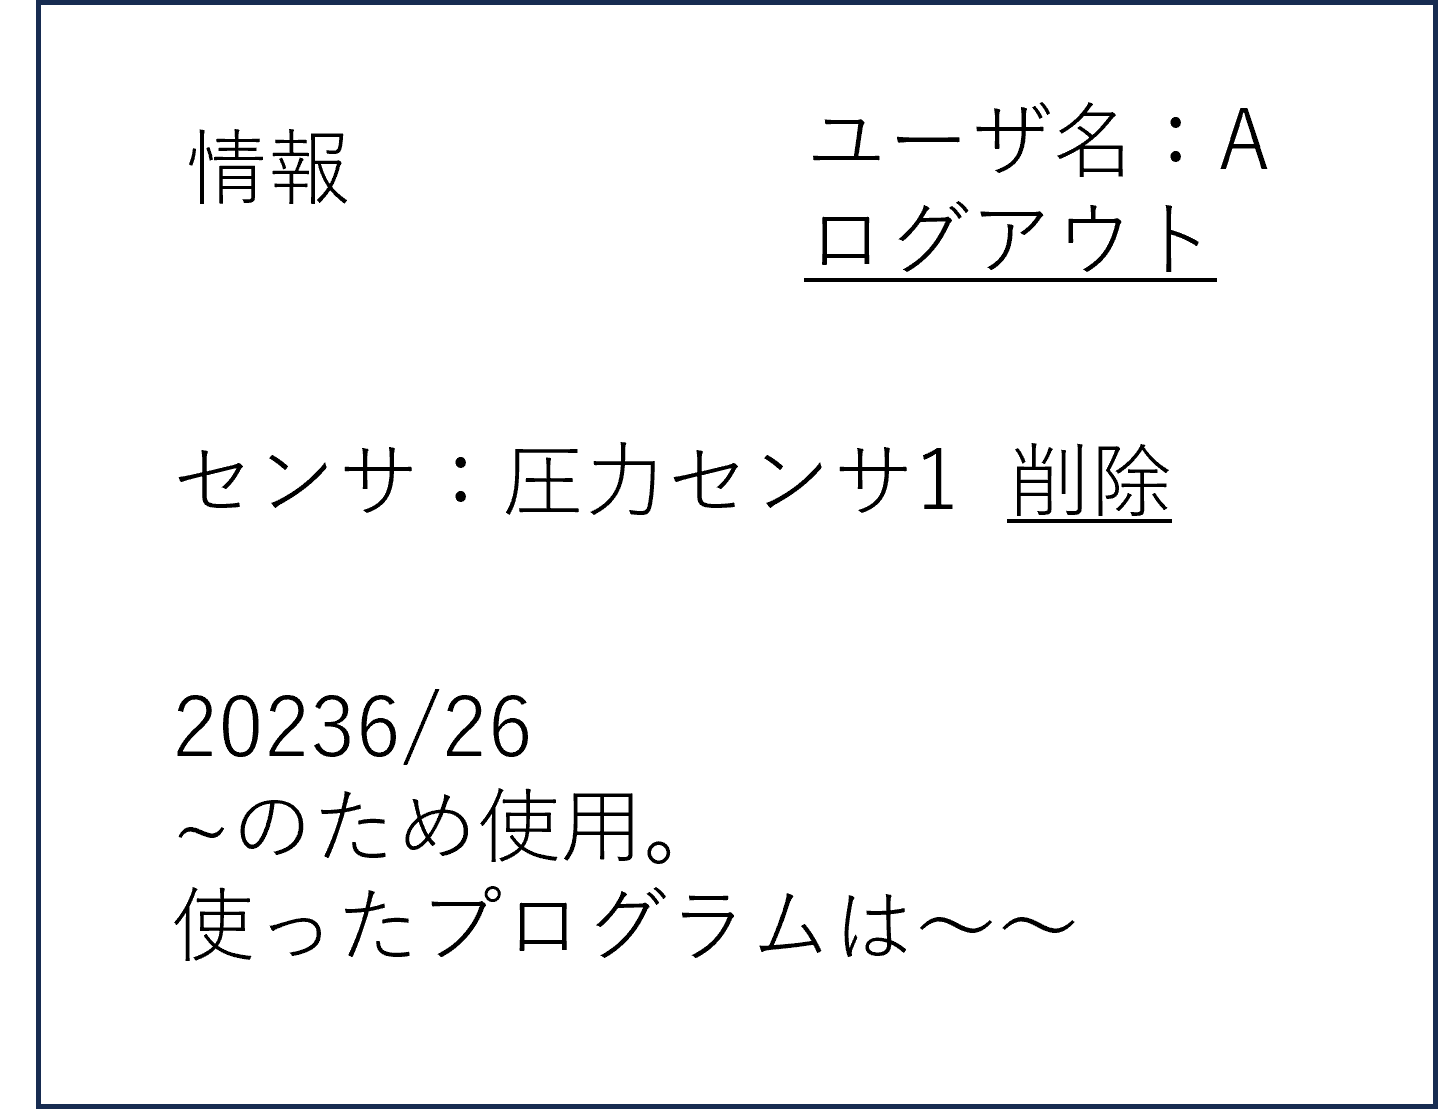
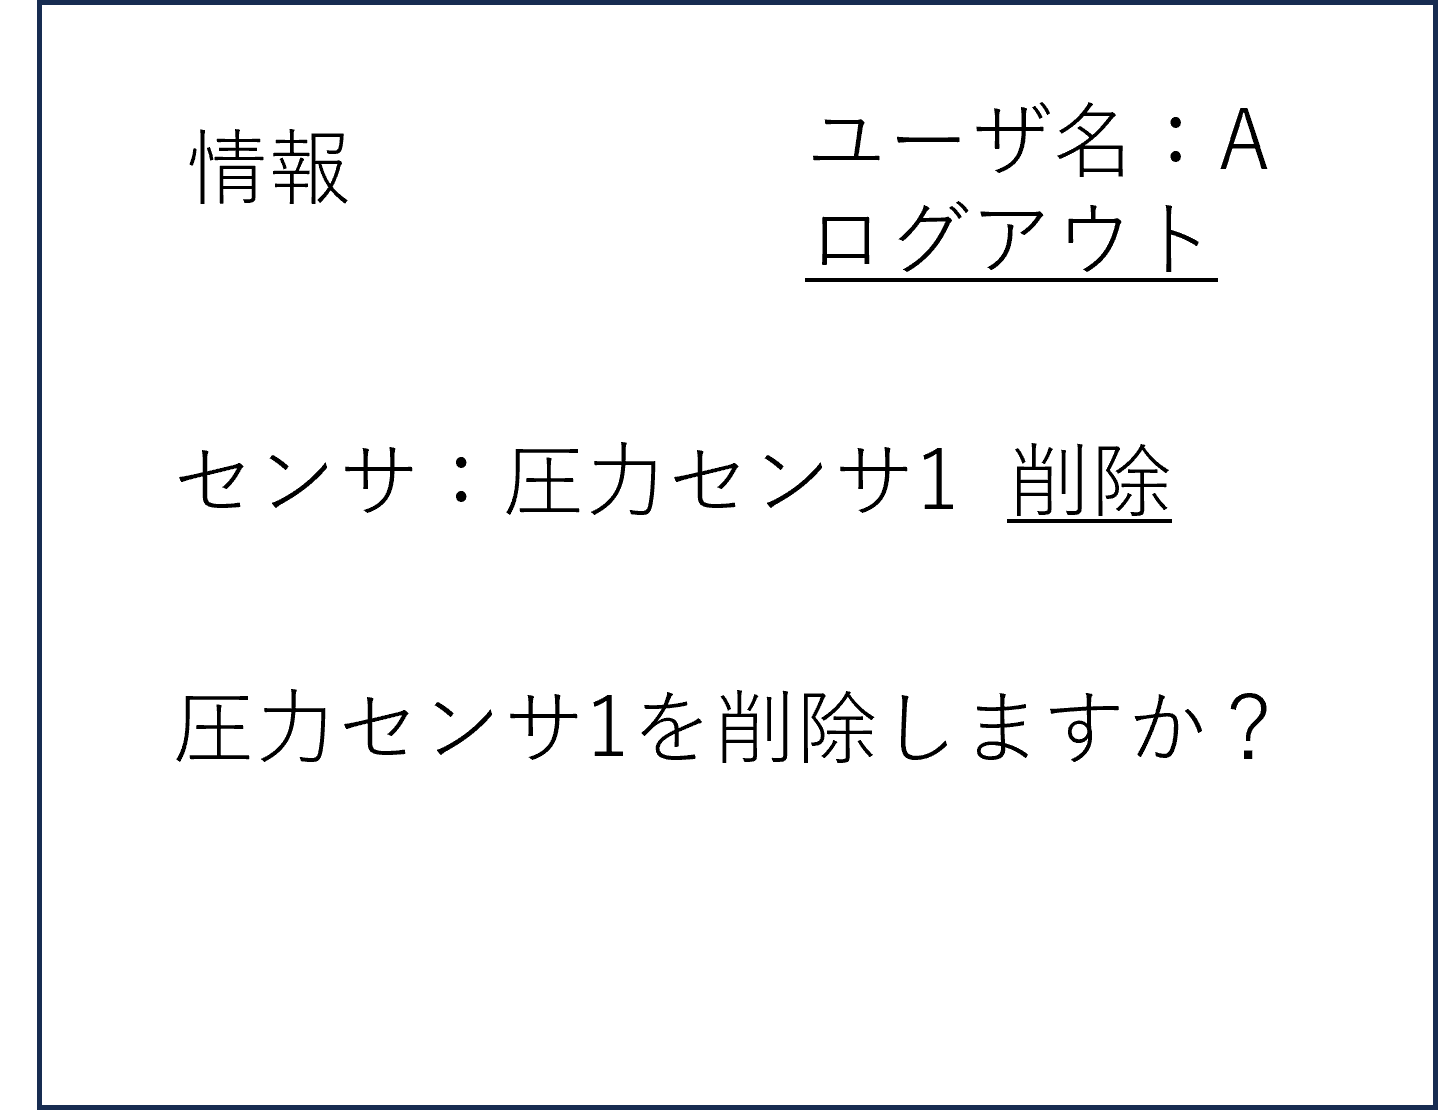
'4追加及び2修正'

diff --git a/LSMS/ユースケース/usecase2.md b/LSMS/ユースケース/usecase2.md
@@ -1,0 +1,31 @@
+# ユースケース2： センサを削除する
+
+## 概要
+誤って登録したセンサを削除する
+
+## アクター
+* 学生
+* 教員
+
+## 事前条件
+学生または教員がシステムにログインしていること。対象のセンサが登録されていること．
+
+## 事後条件
+対象のセンサの登録が削除される．
+
+## トリガー
+学生または教員が「削除」のメニューを選択する．
+
+## 基本フロー
+1.学生または教員は、対象のセンサを検索する．　　
+2.システムは対象のセンサ情報を表示する．  
+3.学生または教員は，削除ボタンを押す．
+4.システムは削除完了を表示しメニューに戻る．
+
+## 代替フロー
+### 代替フロー1
+2a.対象のセンサがない場合，表示エラーを表示し，1に戻る
+
+## GUI紙芝居
+### 削除画面
+![sakujyo](sakujyo.png)
